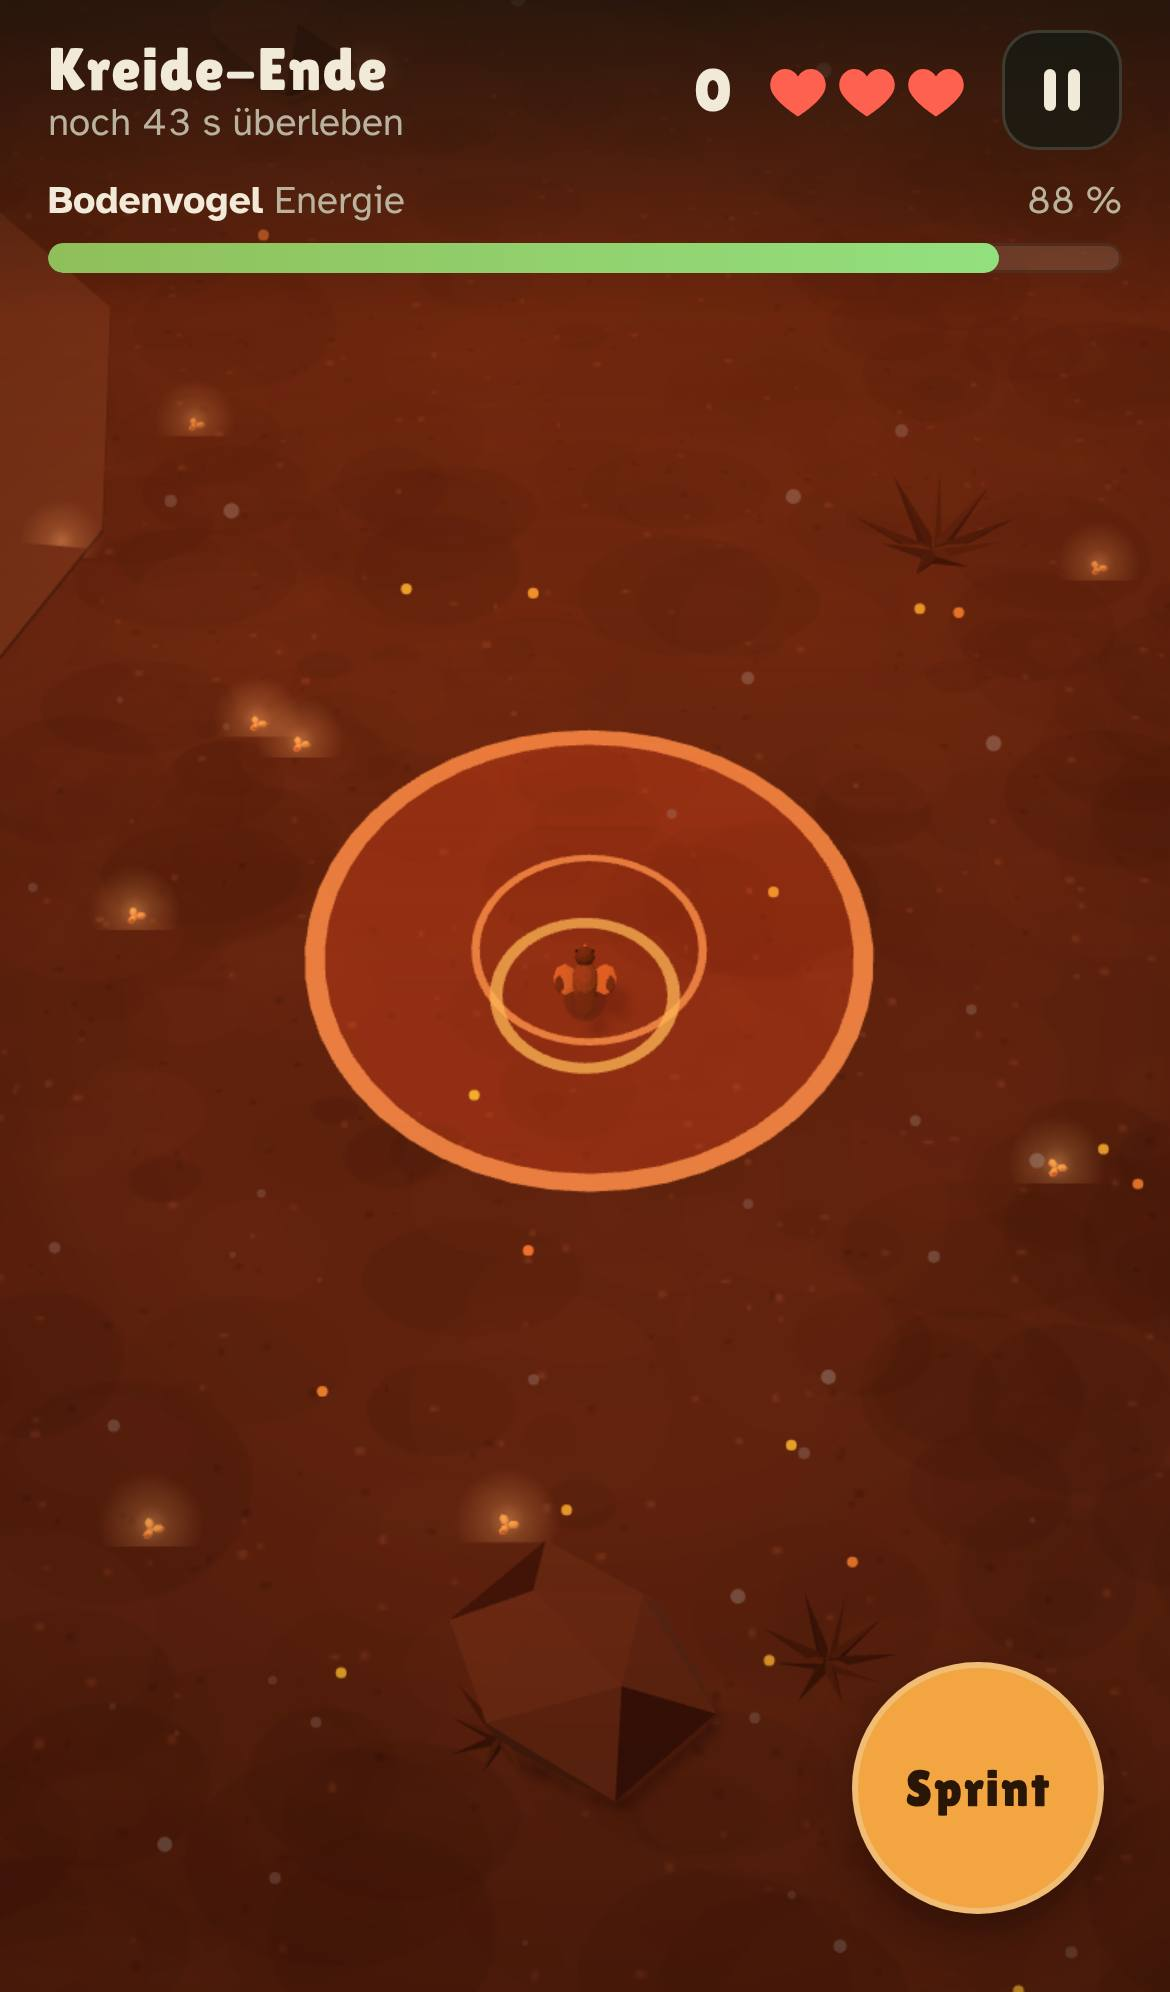
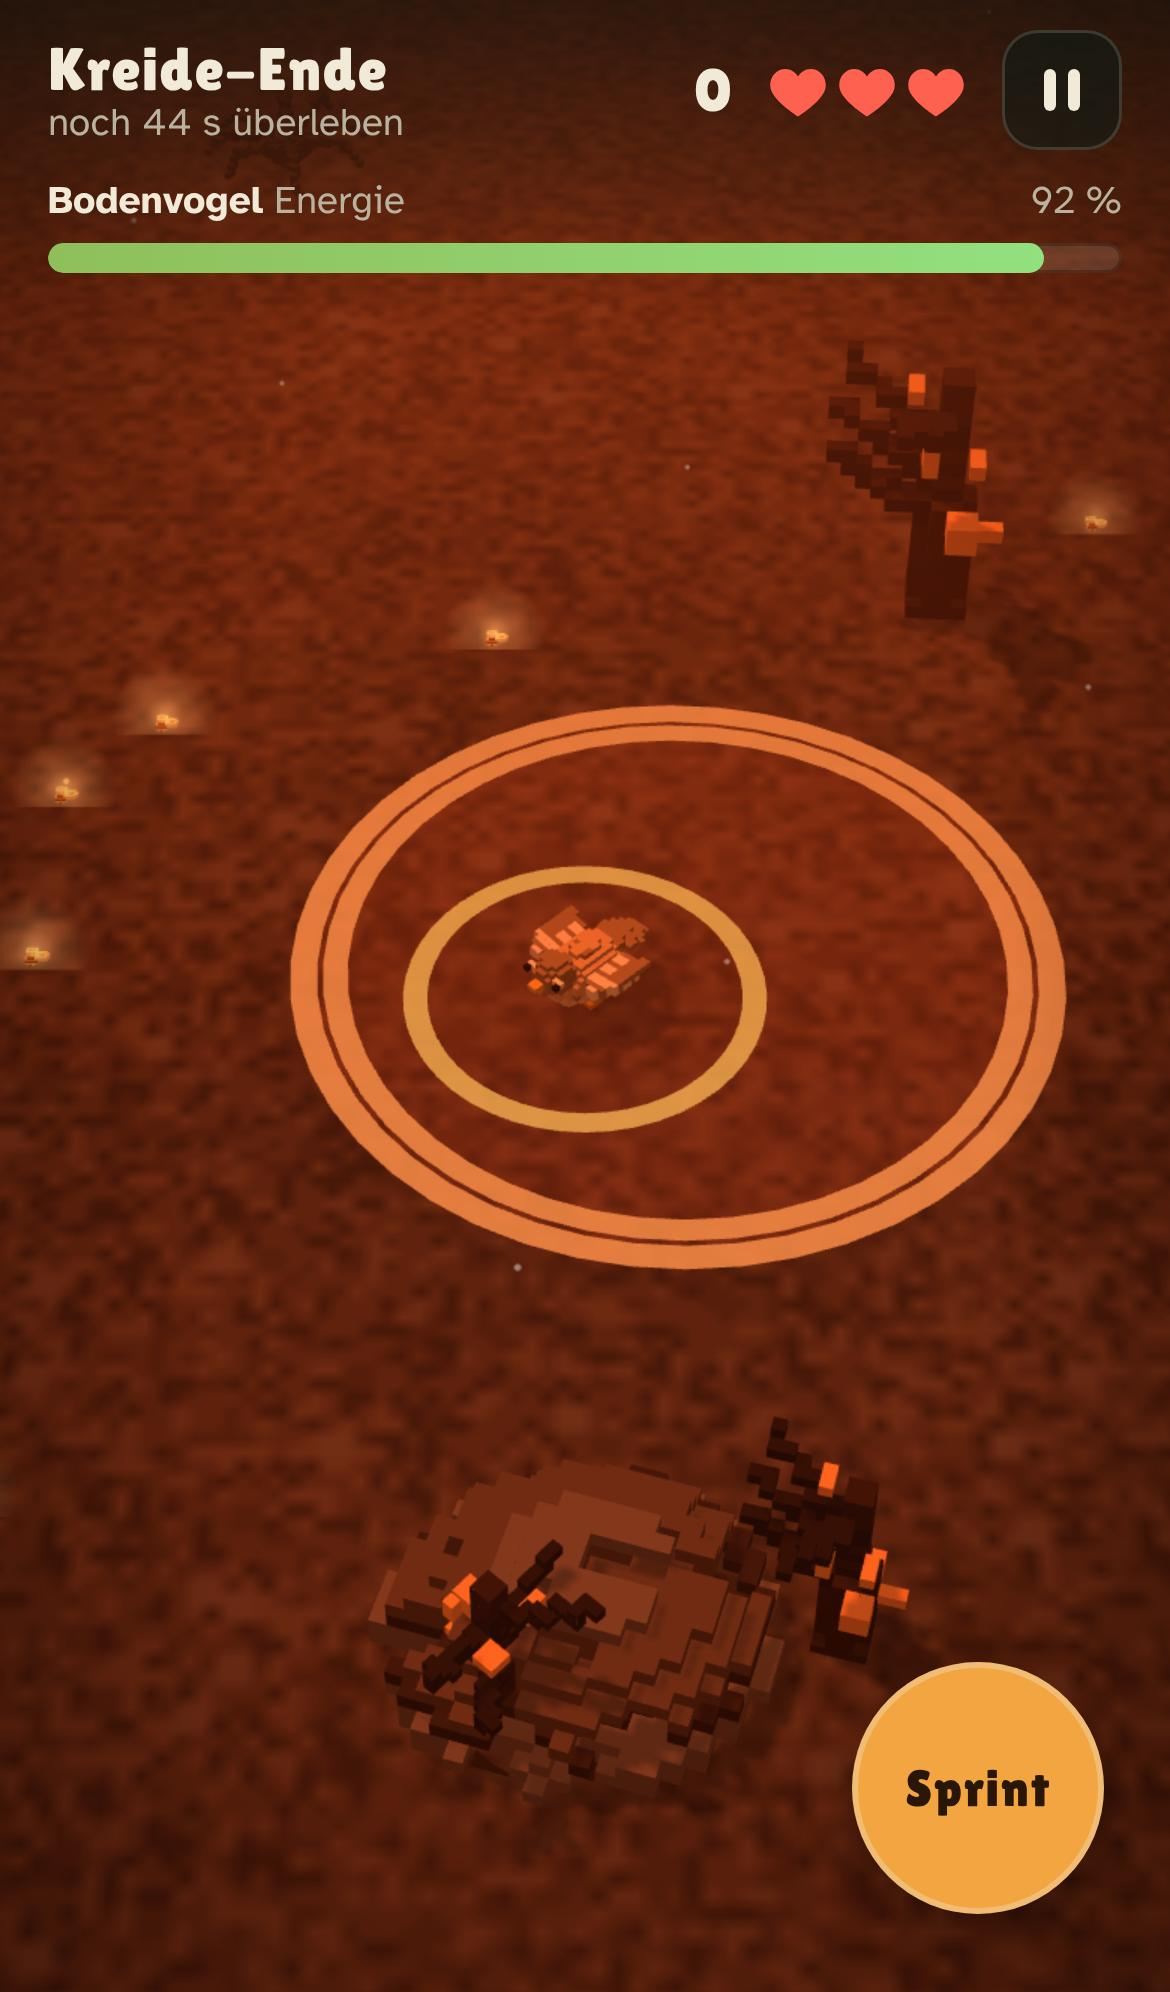
feat: Urzeit-Odyssee Version 3 im Voxel-Stil
Eoraptor und Raubjäger (Carnotaurus) nach Referenzbildern, Futter (Farn, Beeren,
Fleisch, Urzeitfrucht, Gelege), Modellansicht mit vier Ansichten. Gebündeltes
Zeichnen und Sichtprüfung: 27-61 Zeichenaufrufe, 57k-200k Dreiecke pro Bild.

Design: prototypes/urzeit-odyssee/README.md (Findings, Version 3)

Claude-Session: https://claude.ai/code/session_0149ejBGP8NAEbxPA8FZAkGc

diff --git a/prototypes/urzeit-odyssee/index.html b/prototypes/urzeit-odyssee/index.html
@@ -202,7 +202,7 @@ const CONFIG = {
   playerSpeed: 150,
   dashMult: 2.2, dashTime: 0.3, dashCooldown: 2.0,
   chaseMax: 4.5, chaseRest: 2.5,   // Räuber geben nach 4,5 s Jagd kurz auf
-  viewBase: 245, viewGrow: 0.6,    // sichtbarer Ausschnitt und wie stark er mitwächst
+  viewBase: 225, viewGrow: 0.6,    // sichtbarer Ausschnitt und wie stark er mitwächst
   finaleTime: 45, finaleDrain: 0.05, seedEnergy: 0.2,
   hunterSpeed: 0.93,  // Jäger laufen höchstens 93 % deines Tempos
   camPitch: 47, camFov: 38,           // Kamerawinkel von oben und Bildwinkel in Grad
@@ -348,11 +348,11 @@ if (!window.THREE) {
 
 /* Futter, das still liegt. ratio = Nährwert wie Beute mit diesem Anteil deiner Größe, n = Anzahl pro Epoche, s = Größe in der Welt */
 const FOOD = {
-  fern:  { name: 'Farn', ratio: .32, n: 22, s: 15 },
-  berry: { name: 'Beeren', ratio: .4, n: 16, s: 14 },
-  meat:  { name: 'Rohes Fleisch', ratio: .6, n: 10, s: 11 },
-  fruit: { name: 'Urzeitfrucht', ratio: .8, n: 4, s: 10 },
-  nest:  { name: 'Gelege', ratio: .42, n: 10, s: 13 },
+  fern:  { name: 'Farn', ratio: .32, n: 30, s: 15 },
+  berry: { name: 'Beeren', ratio: .4, n: 22, s: 14 },
+  meat:  { name: 'Rohes Fleisch', ratio: .6, n: 13, s: 11 },
+  fruit: { name: 'Urzeitfrucht', ratio: .8, n: 5, s: 10 },
+  nest:  { name: 'Gelege', ratio: .42, n: 13, s: 13 },
 };
 
 /* Körperbau der Vierbeiner. Einheit = Größe des Tiers. x = vorne, y = oben. */
@@ -1152,7 +1152,14 @@ function buildWorld(i) {
   for (const t in world.food) scene.add(world.food[t].mesh);
   setEraLook(E);
   for (const sp of E.species) for (let k = 0; k < sp.n; k++) spawnCreature(sp, true);
-  if (!E.finale) for (const [type, F_] of Object.entries(FOOD)) for (let k = 0; k < F_.n; k++) spawnFood(type, true);
+  if (!E.finale) {
+    for (const [type, F_] of Object.entries(FOOD)) for (let k = 0; k < F_.n; k++) spawnFood(type, true);
+    // Ein guter Start: etwas Futter und kleine Beute in der Nähe
+    const place = (o, k) => { const a = k * 1.9 + .5, r = 150 + k * 40; o.x = WORLD / 2 + Math.cos(a) * r; o.y = WORLD / 2 + Math.sin(a) * r; if (o.glow) o.glow.position.set(o.x, 6, o.y); };
+    ['fern', 'berry', 'fern', 'meat'].forEach((type, k) => { const items = world.food[type].items; place(items[items.length - 1 - (k === 2 ? 1 : 0)], k); });
+    const small = E.species.find(sp => sp.diet !== 'bug' && sp.size <= 9);
+    if (small) world.creatures.filter(c => c.sp === small).slice(0, 3).forEach((c, k) => place(c, k + 4));
+  }
   for (const f of E.fossils) {
     let x, y;
     for (let k = 0; k < 40; k++) {
@@ -1682,7 +1689,8 @@ function fitGallery() {
   let d = 6;
   for (; d < 120; d *= 1.04) {
     cam.position.set(c.x, c.y + Math.sin(elev) * d, c.z + Math.cos(elev) * d); cam.lookAt(c.x, c.y * .8, c.z); cam.updateMatrixWorld();
-    if (pts.every(p => { const q = p.clone().project(cam); return Math.abs(q.x) < .86 && q.y < .62 && q.y > -.66; })) break;
+    const top = gal.portrait ? .72 : .66, bot = gal.portrait ? -.7 : -.72;
+    if (pts.every(p => { const q = p.clone().project(cam); return Math.abs(q.x) < .93 && q.y < top && q.y > bot; })) break;
   }
   gal.light.position.set(c.x - 10, 18, c.z + 14); gal.light.target.position.copy(c);
   // Beschriftungen

diff --git a/prototypes/urzeit-odyssee/README.md b/prototypes/urzeit-odyssee/README.md
@@ -36,7 +36,7 @@ und Kreide nach oben — und überlebe den Asteroiden als kleiner Vogel.
 
 ### Out of scope
 - Kein Mehrspieler, keine Accounts, kein Server
-- Keine Grafik-Assets: alle 3D-Modelle werden im Code aus Grundformen gebaut
+- Keine Grafik-Assets: alle Voxel-Modelle werden im Code aus Grundformen gebaut
 - Keine Meta-Progression (Upgrades, Shop)
 - Keine Musik, nur kurze synthetische Effekte
 
@@ -73,7 +73,7 @@ Epochen-Notizen, „Jäger und Räuber“, „Fortpflanzung, Eier und Brutpflege
 
 ## Findings
 
-Screenshots im Ordner `evidence/` (iPhone-13-Ansicht: Titel, Kreide, Finale).
+Screenshots im Ordner `evidence/` (iPhone-13-Ansicht: Titel, alle Epochen, Finale, Modellansicht).
 
 Bot-Messung (läuft zur nächsten Beute, weicht Gefahren aus, ohne Sprint):
 
@@ -104,6 +104,25 @@ Bot-Messung (läuft zur nächsten Beute, weicht Gefahren aus, ohne Sprint):
   Schatten, dann die Auflösung herunter.
 - Gefundener Fehler: Die Spielfigur hatte kein `speed` in den Daten → Animation rechnete
   mit NaN, Figur unsichtbar. Behoben mit Rückfall auf `CONFIG.playerSpeed`.
+
+### Version 3: Voxel-Stil nach Referenzbildern
+
+- Alle Tiere, Pflanzen und das Futter bestehen aus Würfeln: Grundformen (Ellipsoid, Kapsel,
+  Kegel, Quader) werden in ein Gitter zerlegt, gleichfarbige Flächen zusammengefasst
+  (greedy meshing). Muster wie Flecken, Bauch und Rückenstreifen entstehen pro Würfel.
+- Eoraptor (Spieler) nach Referenz: grün mit braunen Flecken, beiger Bauch, S-Hals.
+- Raubjäger nach Referenz als Carnotaurus in der Kreide (Hörner, offenes Maul, Zähne).
+  Herrerasaurus in der Trias im gleichen Jäger-Bau, ohne Hörner, Größe 40 statt 28.
+- Futter nach Referenz: Farn, Beeren, rohes Fleisch, Urzeitfrucht, dazu Gelege.
+  Etwas Futter und kleine Beute liegen am Start in der Nähe.
+- Modellansicht im Titel: Eoraptor in Seite/Vorne/Hinten/3D, Raubjäger mit
+  Maßstab zum Eoraptor, Futter-Übersicht.
+- Leistung: Jede Tierart wird als ein Bündel (InstancedMesh) gezeichnet, Pflanzen und
+  Futter nur, wenn sie im Bild sind. Ergebnis: 27–61 Zeichenaufrufe und
+  57.000–200.000 Dreiecke pro Bild statt bis zu 700.000. Effekte (Blitz, Vignette,
+  Joystick, Pfeile) sind HTML-Ebenen statt einer zweiten Zeichenfläche.
+- Bot-Messung Trias mit Fliehen: fair, aber lang → Ziel 38 → 34.
+- Ladezeit im Test-Browser: Titel nach 2 s, Epochenwechsel danach sofort (Vorbau im Hintergrund).
 
 Noch offen: menschlicher Spieltest am Handy (Spaß, Schwierigkeit, Bildrate) → Urteil
 PROCEED / PIVOT / KILL.
